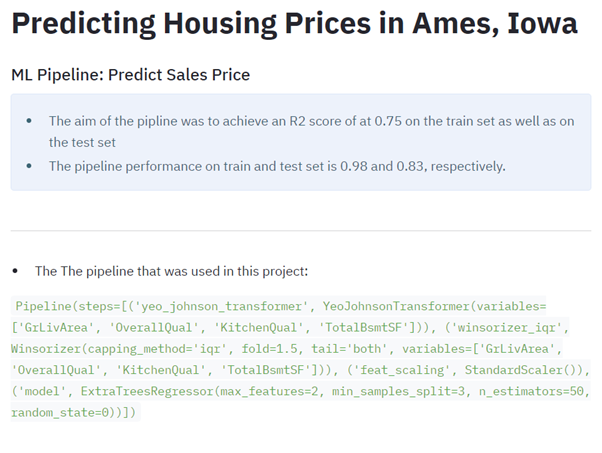
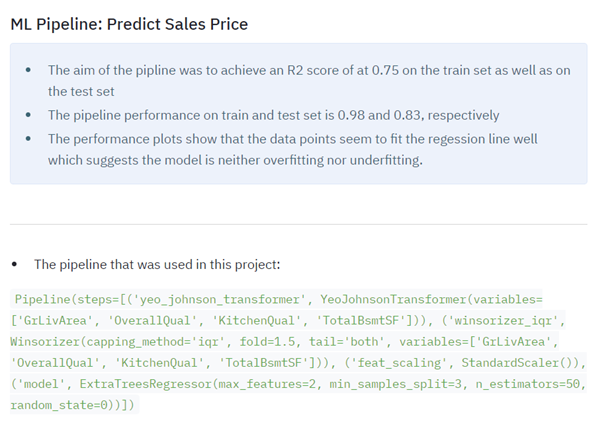
add performance plot conclusion to ML pipeline page

diff --git a/README.md b/README.md
@@ -405,7 +405,7 @@ As a data analyst I want to source a dataset of accurate data so that I have hig
 :-----:|:-----:
 As a data analysist I want to clean the dataset used so there are fewer errors and the predictions I make are more accurate|Two of the variables were dropped due to having a high percentage of missing values - EnclosedPorch (90.7%) and WoodDeckSF (89.4%). Decisions were based on the values to input for the other missing data following analysis
 As a client I want to see graphs to show which variables have the most impact on sale price|The user can see scattergraphs showing sale price plotted against each of the most correlated variable. These are shown when the user clicks the Sale Price Level per Variable in the House Sale Price Study page
-AS a client I want to see heatmaps to show which variables are most correlated with sale price|Both Pearson and Spearman correlations were run. Heatmaps for each of these are displayed on the dashboard when the user clicks the relevant checkbox
+As a client I want to see heatmaps to show which variables are most correlated with sale price|Both Pearson and Spearman correlations were run. Heatmaps for each of these are displayed on the dashboard when the user clicks the relevant checkbox. In the Jupyter notebooks PPS analysis was also carried out but, the PPS heatmap showed that none of the variables had strong predictive power for sale price so, this wasn't included in the dashboard
 
 ### Epic 3 - Model training, optimization and validation
 
